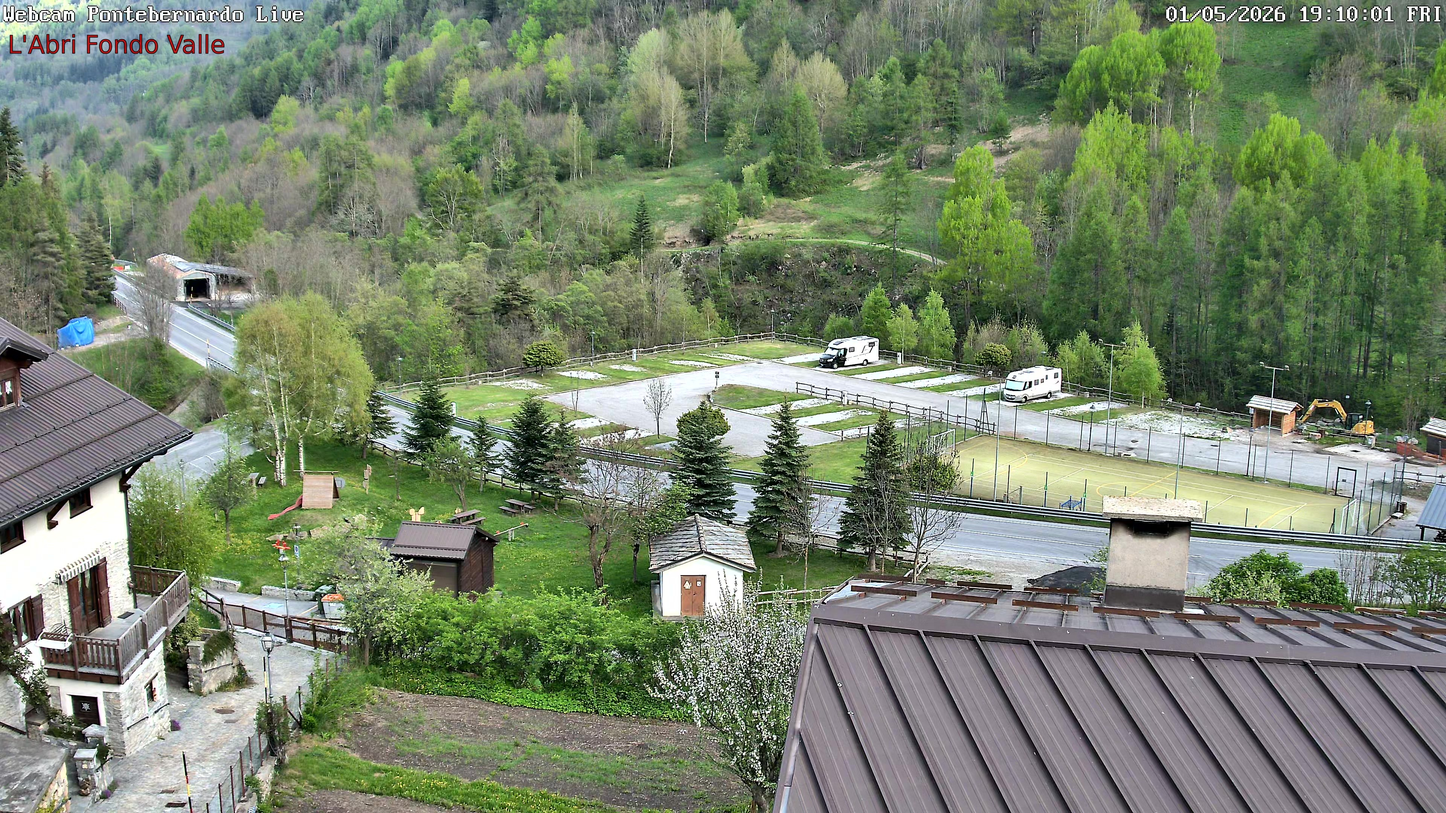
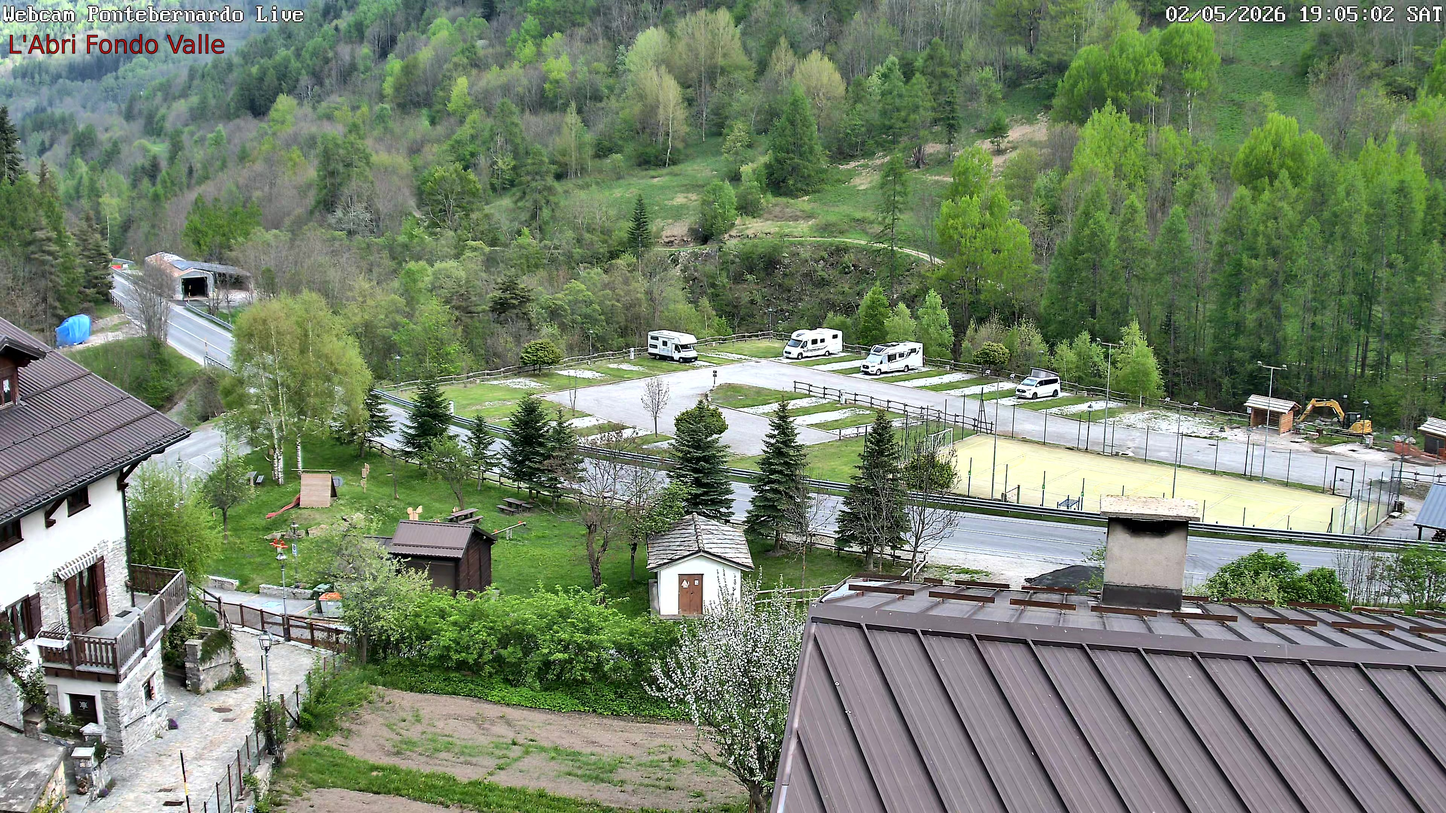
Aggiorna webcam

diff --git a/index.html b/index.html
@@ -2,6 +2,8 @@
 <html lang="it">
 <head>
 <meta charset="UTF-8">
+<meta name="robots" content="noindex, nofollow">
+<meta name="googlebot" content="noindex, nofollow">
 <title>L'Abrì Ingresso</title>
 
 <style>
